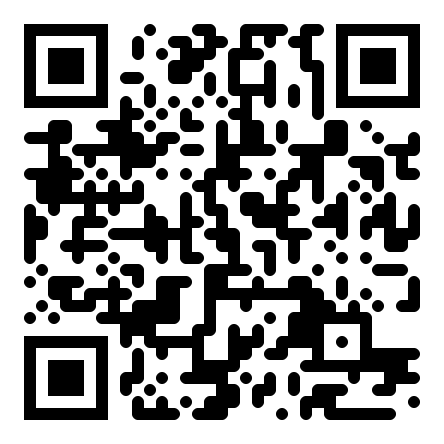
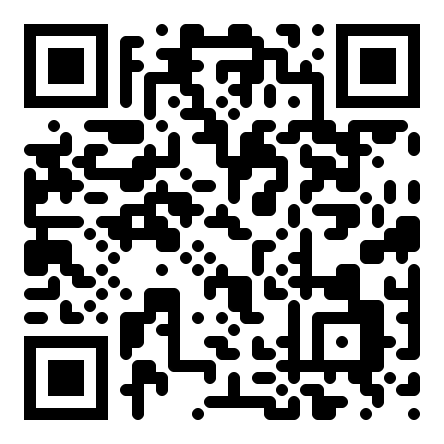
Update LINE ID to @559julyu and regenerate QR code

diff --git a/index.html b/index.html
@@ -172,7 +172,7 @@
     <h2 class="section-title">準備好進入未來企業總部了嗎？</h2>
     <p class="section-subtitle">預約專屬顧問導覽，親自體驗 Orbit Tower 的沉浸式數位體驗</p>
     <div class="hero-cta-group">
-      <a href="mailto:contact@orbittower.ai" class="btn-primary">免費預約展示</a>
+      <a href="mailto:contact@559julyu.ai" class="btn-primary">免費預約展示</a>
       <a href="pricing.html" class="btn-secondary">查看價格方案</a>
     </div>
   </section>
@@ -187,7 +187,7 @@
       <div class="line-info">
         <h3>LINE 即時諮詢</h3>
         <p>加入光曜星樞官方 LINE，專屬顧問即時為您服務。<br>免費諮詢企業建站、AI 數位總部、網域分租等方案。</p>
-        <a href="https://line.me/R/ti/p/@orbittower" class="line-info-btn" target="_blank">
+        <a href="https://line.me/R/ti/p/@559julyu" class="line-info-btn" target="_blank">
           <svg viewBox="0 0 24 24"><path d="M19.365 9.863c.349 0 .63.285.63.631 0 .345-.281.63-.63.63H17.61v1.125h1.755c.349 0 .63.283.63.63 0 .344-.281.629-.63.629h-2.386c-.345 0-.627-.285-.627-.629V8.108c0-.345.282-.63.627-.63h2.386c.349 0 .63.285.63.63 0 .349-.281.63-.63.63H17.61v1.125h1.755zm-3.855 3.016c0 .27-.174.51-.432.596-.064.021-.133.031-.199.031-.211 0-.391-.09-.51-.25l-2.443-3.317v2.94c0 .344-.279.629-.631.629-.346 0-.626-.285-.626-.629V8.108c0-.27.173-.51.43-.595.06-.023.136-.033.194-.033.195 0 .375.104.514.254l2.462 3.33V8.108c0-.345.282-.63.63-.63.345 0 .63.285.63.63v4.771zm-5.741 0c0 .344-.282.629-.631.629-.345 0-.627-.285-.627-.629V8.108c0-.345.282-.63.627-.63.349 0 .631.285.631.63v4.771zm-2.465.629H4.917c-.345 0-.63-.285-.63-.629V8.108c0-.345.285-.63.63-.63.348 0 .63.285.63.63v4.141h1.756c.348 0 .629.283.629.63 0 .344-.282.629-.629.629M24 10.314C24 4.943 18.615.572 12 .572S0 4.943 0 10.314c0 4.811 4.27 8.842 10.035 9.608.391.082.923.258 1.058.592.12.301.079.766.038 1.08l-.164 1.02c-.045.301-.24 1.181 1.049.645 1.291-.539 6.916-4.078 9.436-6.975C23.176 14.383 24 12.458 24 10.314"/></svg>
           加入官方 LINE
         </a>
@@ -197,7 +197,7 @@
 
   <!-- LINE FLOATING BUTTON -->
   <div class="line-float">
-    <a href="https://line.me/R/ti/p/@orbittower" class="line-float-btn" target="_blank" title="LINE 諮詢">
+    <a href="https://line.me/R/ti/p/@559julyu" class="line-float-btn" target="_blank" title="LINE 諮詢">
       <div class="line-float-pulse"></div>
       <svg viewBox="0 0 24 24"><path d="M19.365 9.863c.349 0 .63.285.63.631 0 .345-.281.63-.63.63H17.61v1.125h1.755c.349 0 .63.283.63.63 0 .344-.281.629-.63.629h-2.386c-.345 0-.627-.285-.627-.629V8.108c0-.345.282-.63.627-.63h2.386c.349 0 .63.285.63.63 0 .349-.281.63-.63.63H17.61v1.125h1.755zm-3.855 3.016c0 .27-.174.51-.432.596-.064.021-.133.031-.199.031-.211 0-.391-.09-.51-.25l-2.443-3.317v2.94c0 .344-.279.629-.631.629-.346 0-.626-.285-.626-.629V8.108c0-.27.173-.51.43-.595.06-.023.136-.033.194-.033.195 0 .375.104.514.254l2.462 3.33V8.108c0-.345.282-.63.63-.63.345 0 .63.285.63.63v4.771zm-5.741 0c0 .344-.282.629-.631.629-.345 0-.627-.285-.627-.629V8.108c0-.345.282-.63.627-.63.349 0 .631.285.631.63v4.771zm-2.465.629H4.917c-.345 0-.63-.285-.63-.629V8.108c0-.345.285-.63.63-.63.348 0 .63.285.63.63v4.141h1.756c.348 0 .629.283.629.63 0 .344-.282.629-.629.629M24 10.314C24 4.943 18.615.572 12 .572S0 4.943 0 10.314c0 4.811 4.27 8.842 10.035 9.608.391.082.923.258 1.058.592.12.301.079.766.038 1.08l-.164 1.02c-.045.301-.24 1.181 1.049.645 1.291-.539 6.916-4.078 9.436-6.975C23.176 14.383 24 12.458 24 10.314"/></svg>
     </a>
@@ -237,8 +237,8 @@
       <div class="footer-section">
         <h4>聯絡</h4>
         <ul>
-          <li><a href="mailto:contact@orbittower.ai">contact@orbittower.ai</a></li>
-          <li><a href="https://line.me/R/ti/p/@orbittower" target="_blank" class="footer-line"><svg viewBox="0 0 24 24"><path d="M19.365 9.863c.349 0 .63.285.63.631 0 .345-.281.63-.63.63H17.61v1.125h1.755c.349 0 .63.283.63.63 0 .344-.281.629-.63.629h-2.386c-.345 0-.627-.285-.627-.629V8.108c0-.345.282-.63.627-.63h2.386c.349 0 .63.285.63.63 0 .349-.281.63-.63.63H17.61v1.125h1.755zm-3.855 3.016c0 .27-.174.51-.432.596-.064.021-.133.031-.199.031-.211 0-.391-.09-.51-.25l-2.443-3.317v2.94c0 .344-.279.629-.631.629-.346 0-.626-.285-.626-.629V8.108c0-.27.173-.51.43-.595.06-.023.136-.033.194-.033.195 0 .375.104.514.254l2.462 3.33V8.108c0-.345.282-.63.63-.63.345 0 .63.285.63.63v4.771zm-5.741 0c0 .344-.282.629-.631.629-.345 0-.627-.285-.627-.629V8.108c0-.345.282-.63.627-.63.349 0 .631.285.631.63v4.771zm-2.465.629H4.917c-.345 0-.63-.285-.63-.629V8.108c0-.345.285-.63.63-.63.348 0 .63.285.63.63v4.141h1.756c.348 0 .629.283.629.63 0 .344-.282.629-.629.629M24 10.314C24 4.943 18.615.572 12 .572S0 4.943 0 10.314c0 4.811 4.27 8.842 10.035 9.608.391.082.923.258 1.058.592.12.301.079.766.038 1.08l-.164 1.02c-.045.301-.24 1.181 1.049.645 1.291-.539 6.916-4.078 9.436-6.975C23.176 14.383 24 12.458 24 10.314"/></svg>LINE 官方帳號</a></li>
+          <li><a href="mailto:contact@559julyu.ai">contact@559julyu.ai</a></li>
+          <li><a href="https://line.me/R/ti/p/@559julyu" target="_blank" class="footer-line"><svg viewBox="0 0 24 24"><path d="M19.365 9.863c.349 0 .63.285.63.631 0 .345-.281.63-.63.63H17.61v1.125h1.755c.349 0 .63.283.63.63 0 .344-.281.629-.63.629h-2.386c-.345 0-.627-.285-.627-.629V8.108c0-.345.282-.63.627-.63h2.386c.349 0 .63.285.63.63 0 .349-.281.63-.63.63H17.61v1.125h1.755zm-3.855 3.016c0 .27-.174.51-.432.596-.064.021-.133.031-.199.031-.211 0-.391-.09-.51-.25l-2.443-3.317v2.94c0 .344-.279.629-.631.629-.346 0-.626-.285-.626-.629V8.108c0-.27.173-.51.43-.595.06-.023.136-.033.194-.033.195 0 .375.104.514.254l2.462 3.33V8.108c0-.345.282-.63.63-.63.345 0 .63.285.63.63v4.771zm-5.741 0c0 .344-.282.629-.631.629-.345 0-.627-.285-.627-.629V8.108c0-.345.282-.63.627-.63.349 0 .631.285.631.63v4.771zm-2.465.629H4.917c-.345 0-.63-.285-.63-.629V8.108c0-.345.285-.63.63-.63.348 0 .63.285.63.63v4.141h1.756c.348 0 .629.283.629.63 0 .344-.282.629-.629.629M24 10.314C24 4.943 18.615.572 12 .572S0 4.943 0 10.314c0 4.811 4.27 8.842 10.035 9.608.391.082.923.258 1.058.592.12.301.079.766.038 1.08l-.164 1.02c-.045.301-.24 1.181 1.049.645 1.291-.539 6.916-4.078 9.436-6.975C23.176 14.383 24 12.458 24 10.314"/></svg>LINE 官方帳號</a></li>
           <li><a href="#contact">免費預約展示</a></li>
         </ul>
       </div>

diff --git a/gallery.html b/gallery.html
@@ -429,7 +429,7 @@
 
   <!-- LINE FLOATING BUTTON -->
   <div class="line-float">
-    <a href="https://line.me/R/ti/p/@orbittower" class="line-float-btn" target="_blank" title="LINE 諮詢">
+    <a href="https://line.me/R/ti/p/@559julyu" class="line-float-btn" target="_blank" title="LINE 諮詢">
       <div class="line-float-pulse"></div>
       <svg viewBox="0 0 24 24"><path d="M19.365 9.863c.349 0 .63.285.63.631 0 .345-.281.63-.63.63H17.61v1.125h1.755c.349 0 .63.283.63.63 0 .344-.281.629-.63.629h-2.386c-.345 0-.627-.285-.627-.629V8.108c0-.345.282-.63.627-.63h2.386c.349 0 .63.285.63.63 0 .349-.281.63-.63.63H17.61v1.125h1.755zm-3.855 3.016c0 .27-.174.51-.432.596-.064.021-.133.031-.199.031-.211 0-.391-.09-.51-.25l-2.443-3.317v2.94c0 .344-.279.629-.631.629-.346 0-.626-.285-.626-.629V8.108c0-.27.173-.51.43-.595.06-.023.136-.033.194-.033.195 0 .375.104.514.254l2.462 3.33V8.108c0-.345.282-.63.63-.63.345 0 .63.285.63.63v4.771zm-5.741 0c0 .344-.282.629-.631.629-.345 0-.627-.285-.627-.629V8.108c0-.345.282-.63.627-.63.349 0 .631.285.631.63v4.771zm-2.465.629H4.917c-.345 0-.63-.285-.63-.629V8.108c0-.345.285-.63.63-.63.348 0 .63.285.63.63v4.141h1.756c.348 0 .629.283.629.63 0 .344-.282.629-.629.629M24 10.314C24 4.943 18.615.572 12 .572S0 4.943 0 10.314c0 4.811 4.27 8.842 10.035 9.608.391.082.923.258 1.058.592.12.301.079.766.038 1.08l-.164 1.02c-.045.301-.24 1.181 1.049.645 1.291-.539 6.916-4.078 9.436-6.975C23.176 14.383 24 12.458 24 10.314"/></svg>
     </a>
@@ -468,7 +468,7 @@
       <div class="footer-section">
         <h4>聯絡</h4>
         <ul>
-          <li><a href="mailto:contact@orbittower.ai">contact@orbittower.ai</a></li>
+          <li><a href="mailto:contact@559julyu.ai">contact@559julyu.ai</a></li>
           <li><a href="index.html#contact">免費預約展示</a></li>
         </ul>
       </div>

diff --git a/pricing.html b/pricing.html
@@ -181,7 +181,7 @@
 
   <!-- LINE FLOATING BUTTON -->
   <div class="line-float">
-    <a href="https://line.me/R/ti/p/@orbittower" class="line-float-btn" target="_blank" title="LINE 諮詢">
+    <a href="https://line.me/R/ti/p/@559julyu" class="line-float-btn" target="_blank" title="LINE 諮詢">
       <div class="line-float-pulse"></div>
       <svg viewBox="0 0 24 24"><path d="M19.365 9.863c.349 0 .63.285.63.631 0 .345-.281.63-.63.63H17.61v1.125h1.755c.349 0 .63.283.63.63 0 .344-.281.629-.63.629h-2.386c-.345 0-.627-.285-.627-.629V8.108c0-.345.282-.63.627-.63h2.386c.349 0 .63.285.63.63 0 .349-.281.63-.63.63H17.61v1.125h1.755zm-3.855 3.016c0 .27-.174.51-.432.596-.064.021-.133.031-.199.031-.211 0-.391-.09-.51-.25l-2.443-3.317v2.94c0 .344-.279.629-.631.629-.346 0-.626-.285-.626-.629V8.108c0-.27.173-.51.43-.595.06-.023.136-.033.194-.033.195 0 .375.104.514.254l2.462 3.33V8.108c0-.345.282-.63.63-.63.345 0 .63.285.63.63v4.771zm-5.741 0c0 .344-.282.629-.631.629-.345 0-.627-.285-.627-.629V8.108c0-.345.282-.63.627-.63.349 0 .631.285.631.63v4.771zm-2.465.629H4.917c-.345 0-.63-.285-.63-.629V8.108c0-.345.285-.63.63-.63.348 0 .63.285.63.63v4.141h1.756c.348 0 .629.283.629.63 0 .344-.282.629-.629.629M24 10.314C24 4.943 18.615.572 12 .572S0 4.943 0 10.314c0 4.811 4.27 8.842 10.035 9.608.391.082.923.258 1.058.592.12.301.079.766.038 1.08l-.164 1.02c-.045.301-.24 1.181 1.049.645 1.291-.539 6.916-4.078 9.436-6.975C23.176 14.383 24 12.458 24 10.314"/></svg>
     </a>
@@ -211,7 +211,7 @@
       <div class="footer-section">
         <h4>聯絡</h4>
         <ul>
-          <li><a href="mailto:contact@orbittower.ai">contact@orbittower.ai</a></li>
+          <li><a href="mailto:contact@559julyu.ai">contact@559julyu.ai</a></li>
           <li><a href="index.html#contact">免費預約展示</a></li>
         </ul>
       </div>

diff --git a/tower.html b/tower.html
@@ -89,7 +89,7 @@
 
   <!-- LINE FLOATING BUTTON -->
   <div class="line-float">
-    <a href="https://line.me/R/ti/p/@orbittower" class="line-float-btn" target="_blank" title="LINE 諮詢">
+    <a href="https://line.me/R/ti/p/@559julyu" class="line-float-btn" target="_blank" title="LINE 諮詢">
       <div class="line-float-pulse"></div>
       <svg viewBox="0 0 24 24"><path d="M19.365 9.863c.349 0 .63.285.63.631 0 .345-.281.63-.63.63H17.61v1.125h1.755c.349 0 .63.283.63.63 0 .344-.281.629-.63.629h-2.386c-.345 0-.627-.285-.627-.629V8.108c0-.345.282-.63.627-.63h2.386c.349 0 .63.285.63.63 0 .349-.281.63-.63.63H17.61v1.125h1.755zm-3.855 3.016c0 .27-.174.51-.432.596-.064.021-.133.031-.199.031-.211 0-.391-.09-.51-.25l-2.443-3.317v2.94c0 .344-.279.629-.631.629-.346 0-.626-.285-.626-.629V8.108c0-.27.173-.51.43-.595.06-.023.136-.033.194-.033.195 0 .375.104.514.254l2.462 3.33V8.108c0-.345.282-.63.63-.63.345 0 .63.285.63.63v4.771zm-5.741 0c0 .344-.282.629-.631.629-.345 0-.627-.285-.627-.629V8.108c0-.345.282-.63.627-.63.349 0 .631.285.631.63v4.771zm-2.465.629H4.917c-.345 0-.63-.285-.63-.629V8.108c0-.345.285-.63.63-.63.348 0 .63.285.63.63v4.141h1.756c.348 0 .629.283.629.63 0 .344-.282.629-.629.629M24 10.314C24 4.943 18.615.572 12 .572S0 4.943 0 10.314c0 4.811 4.27 8.842 10.035 9.608.391.082.923.258 1.058.592.12.301.079.766.038 1.08l-.164 1.02c-.045.301-.24 1.181 1.049.645 1.291-.539 6.916-4.078 9.436-6.975C23.176 14.383 24 12.458 24 10.314"/></svg>
     </a>
@@ -142,7 +142,7 @@
       <div class="footer-section">
         <h4>聯絡</h4>
         <ul>
-          <li><a href="mailto:contact@orbittower.ai">contact@orbittower.ai</a></li>
+          <li><a href="mailto:contact@559julyu.ai">contact@559julyu.ai</a></li>
           <li><a href="index.html#contact">免費預約展示</a></li>
         </ul>
       </div>
